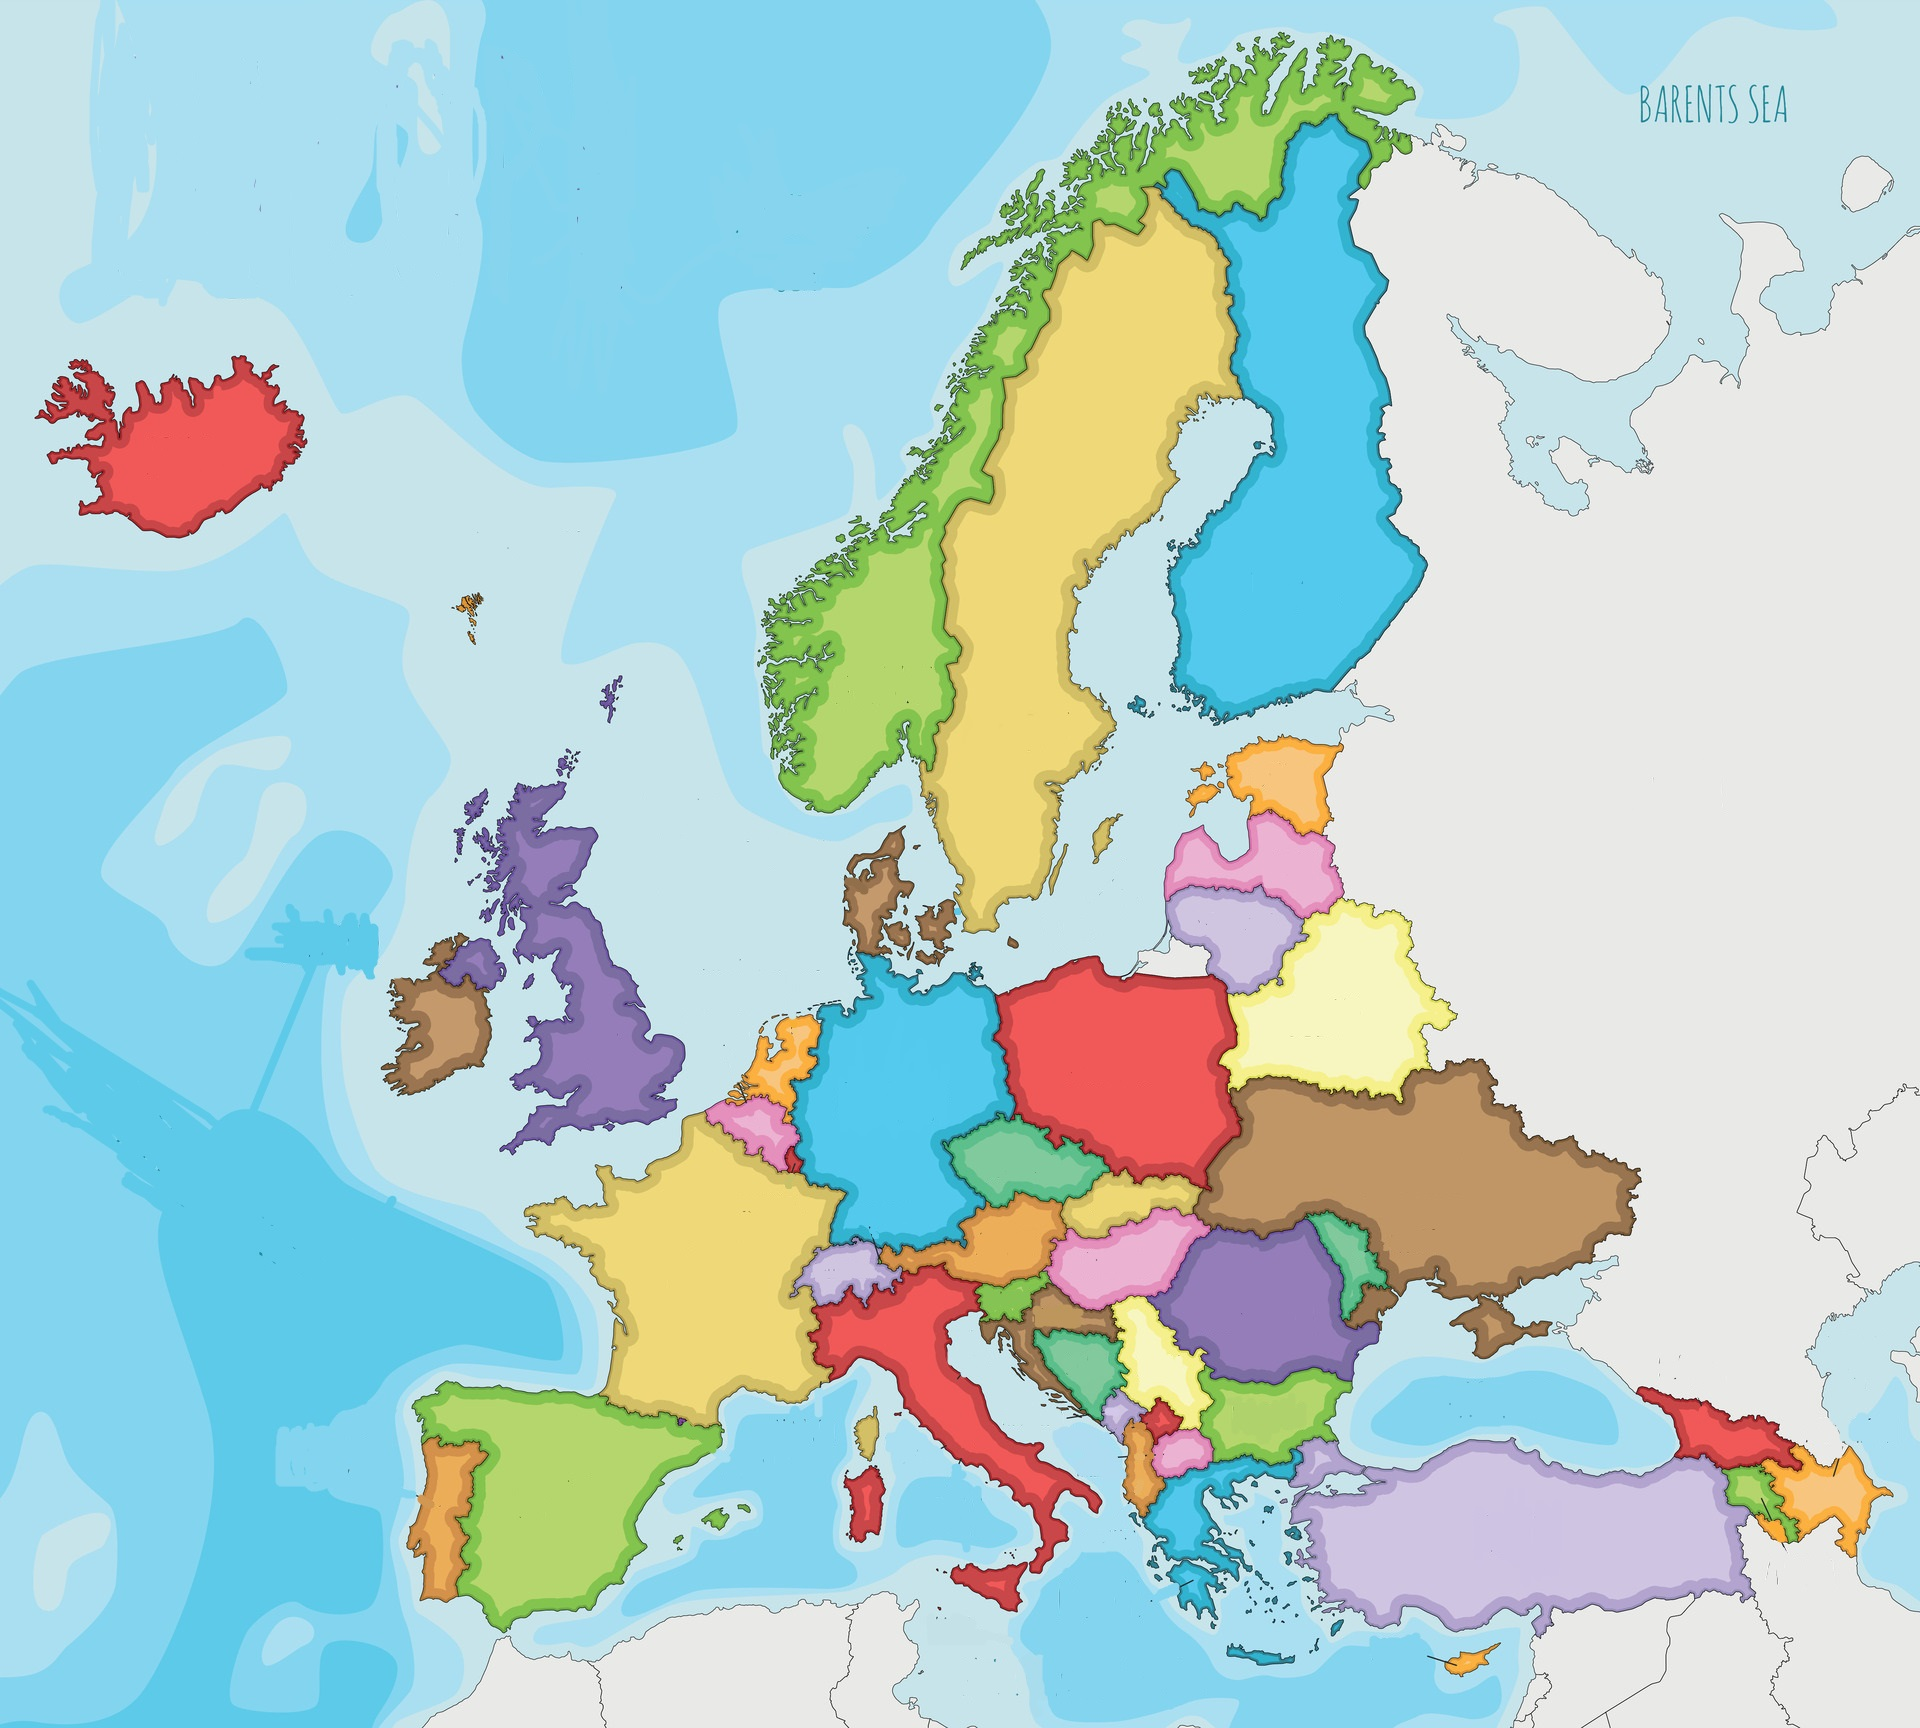
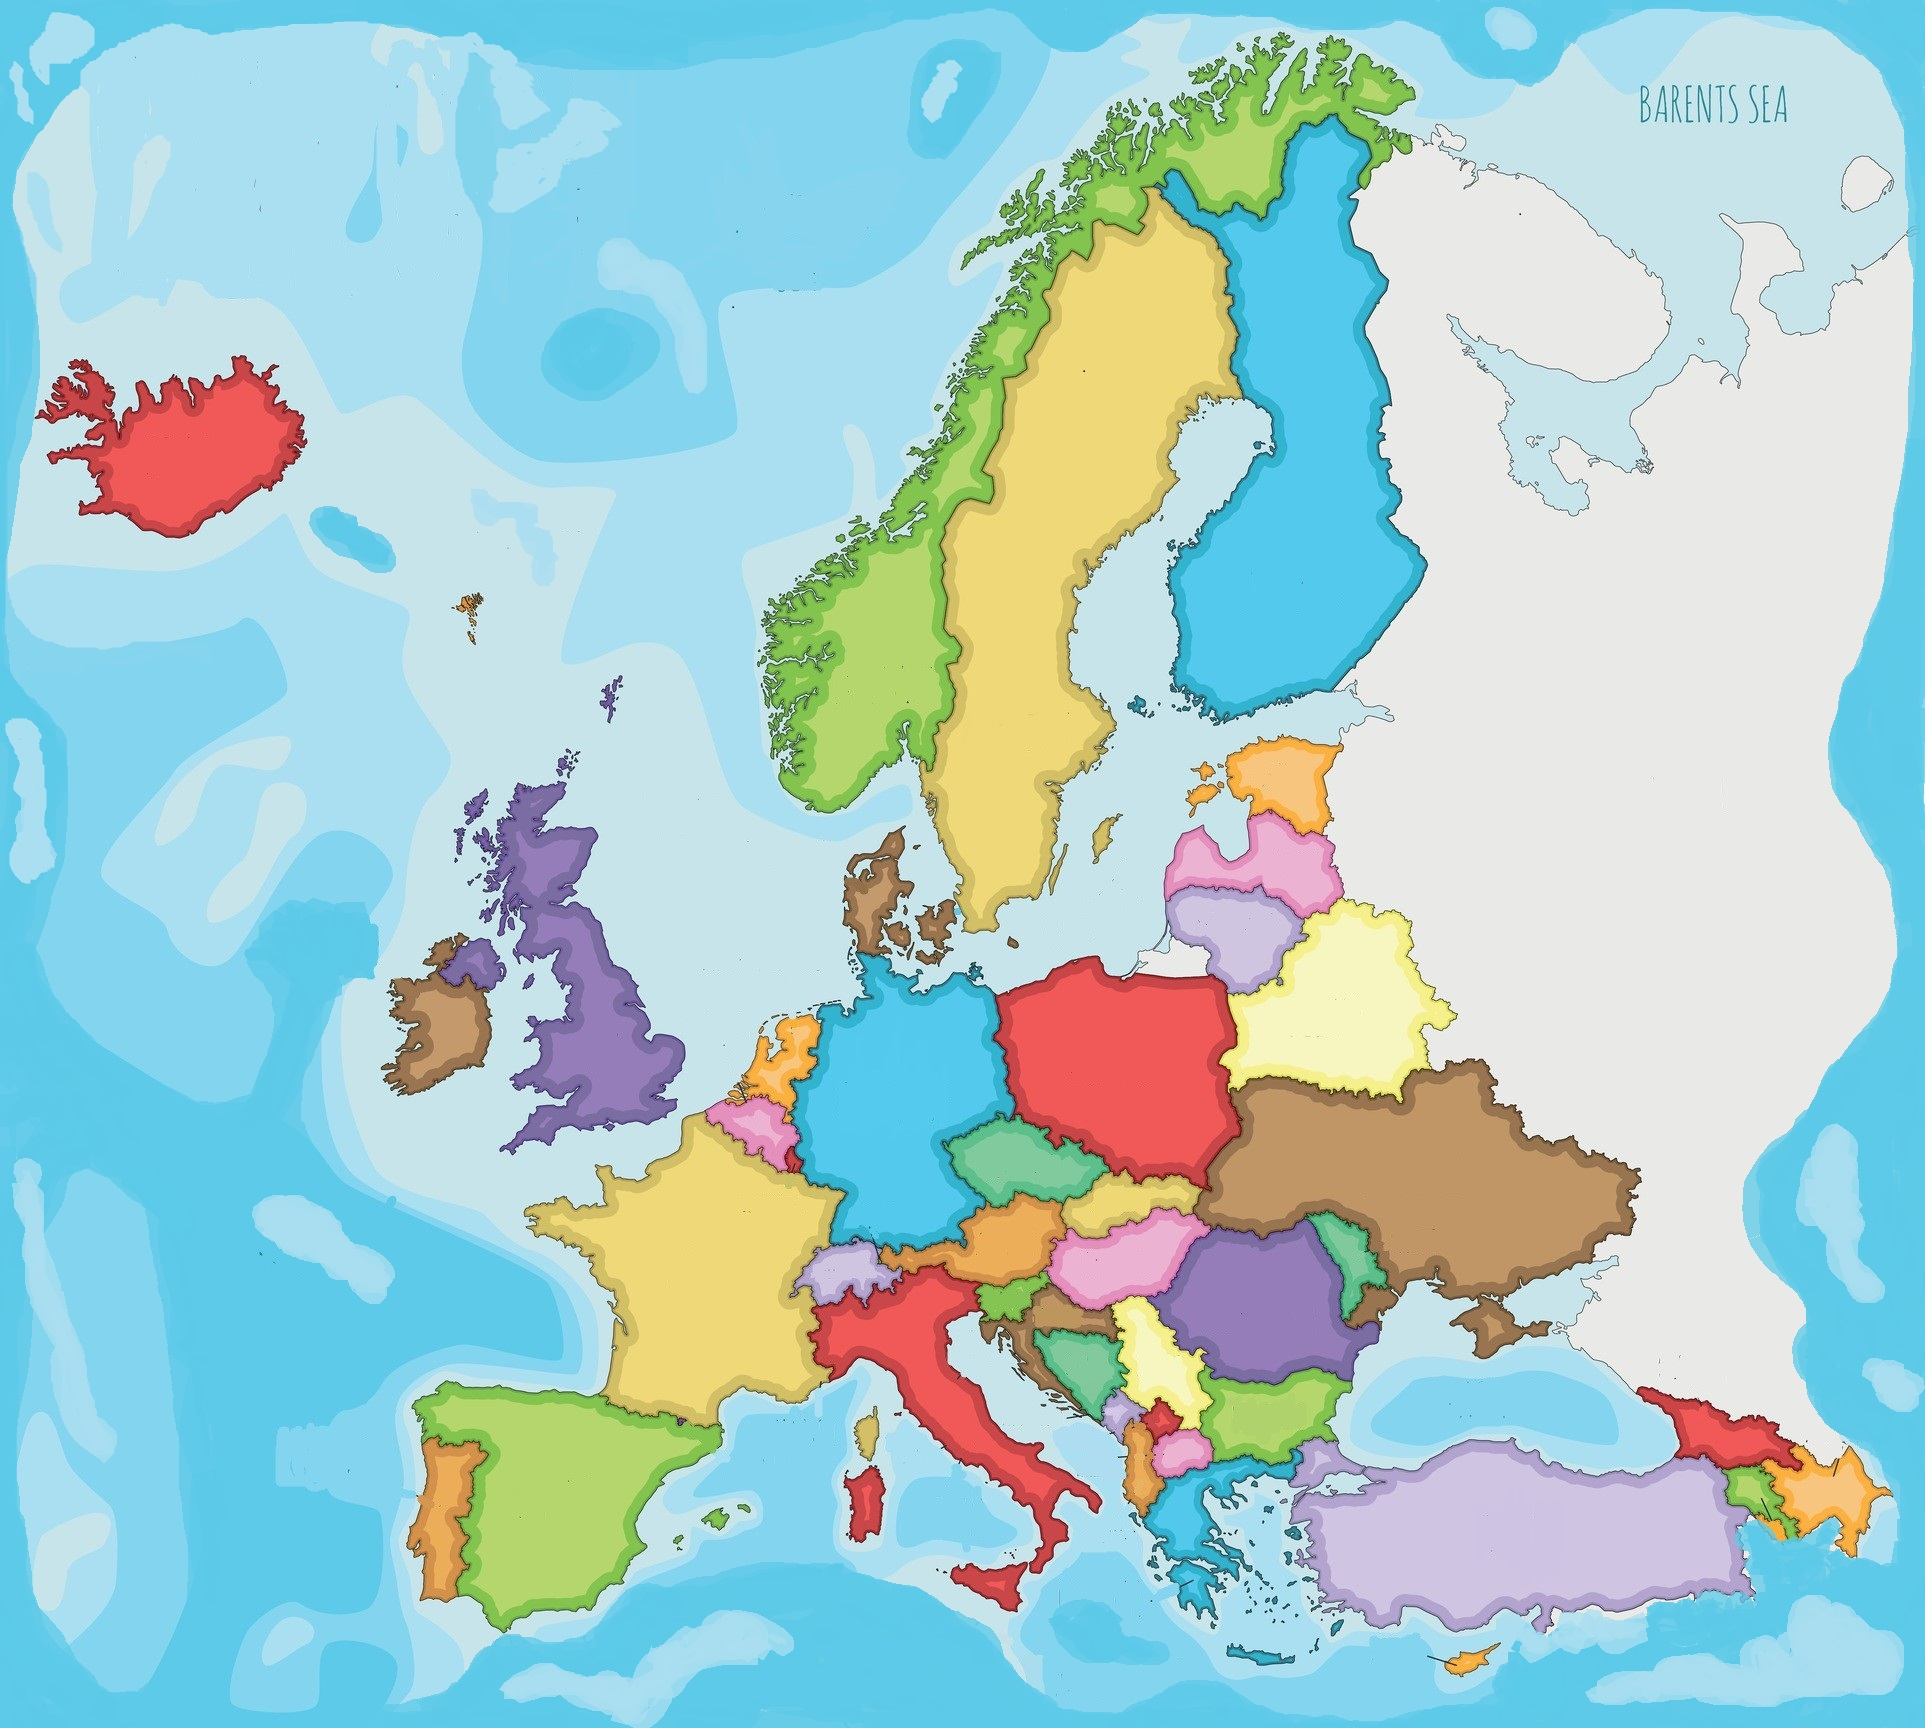
ny eu karta

diff --git a/src/views/GameView.vue b/src/views/GameView.vue
@@ -1,4 +1,5 @@
 <template>
+  <div class="background">
   <div id="wrapper">
     <Map 
       v-if="poll && poll.cities"
@@ -23,6 +24,7 @@
     >
     </Question>
   </div>
+</div>
 </template>
 
 <script>
@@ -159,5 +161,11 @@ export default {
   padding: 0.3em;
 }
 
+.background {
+  margin: 0;
+  padding: 0;
+  height: 100%;
+  background: #5acce5ff; 
+}
 
   </style>
